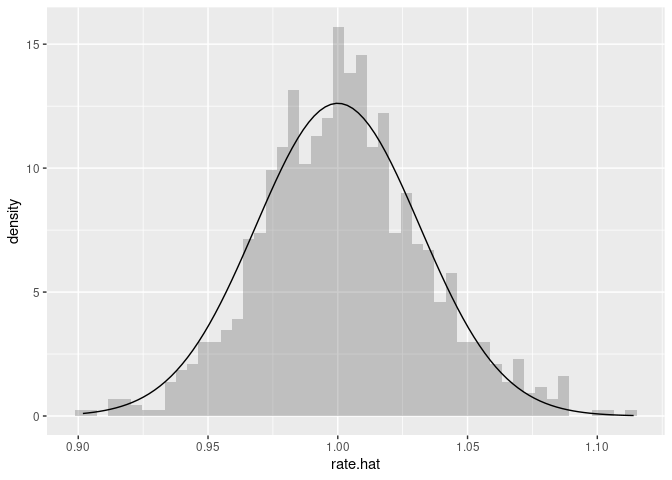
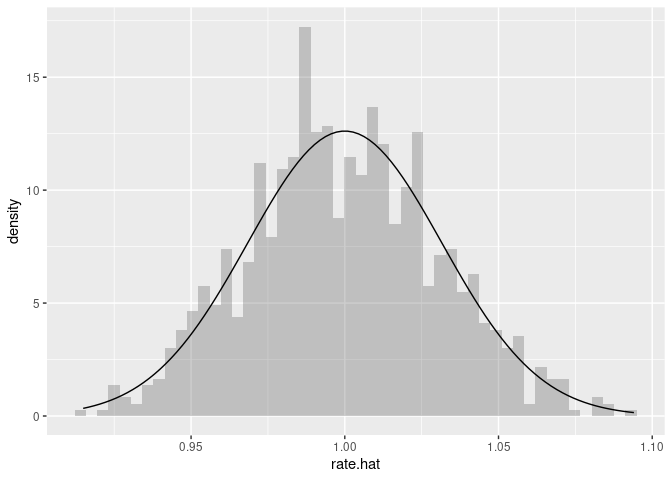
updates

diff --git a/README.md b/README.md
@@ -40,18 +40,18 @@ from this sample (data frame) with:
 ``` r
 print(x)
 #> # A tibble: 1,000 × 1
-#>        x
-#>    <dbl>
-#>  1 0.842
-#>  2 0.459
-#>  3 0.597
-#>  4 0.987
-#>  5 1.10 
-#>  6 0.680
-#>  7 0.773
-#>  8 1.59 
-#>  9 1.12 
-#> 10 0.750
+#>         x
+#>     <dbl>
+#>  1 1.62  
+#>  2 1.33  
+#>  3 0.397 
+#>  4 0.0523
+#>  5 1.59  
+#>  6 1.59  
+#>  7 0.112 
+#>  8 0.108 
+#>  9 6.27  
+#> 10 0.246 
 #> # … with 990 more rows
 ```
 
@@ -76,15 +76,15 @@ estimation as implemented by the `algebraic.mle` package:
 library(algebraic.mle)
 (rate.hat <- mle_exp(x$x))
 #> $theta.hat
-#> [1] 0.9853597
+#> [1] 1.044433
 #> 
 #> $info
 #>          [,1]
-#> [1,] 1029.936
+#> [1,] 916.7246
 #> 
 #> $sigma
-#>              [,1]
-#> [1,] 0.0009709337
+#>            [,1]
+#> [1,] 0.00109084
 #> 
 #> $sample_size
 #> [1] 1000
@@ -97,7 +97,7 @@ We can show the point estimator with:
 
 ``` r
 point(rate.hat)
-#> [1] 0.9853597
+#> [1] 1.044433
 ```
 
 We can show the Fisher information and variance-covariance matrices
@@ -106,10 +106,10 @@ with:
 ``` r
 fisher_info(rate.hat)
 #>          [,1]
-#> [1,] 1029.936
+#> [1,] 916.7246
 vcov(rate.hat)
-#>              [,1]
-#> [1,] 0.0009709337
+#>            [,1]
+#> [1,] 0.00109084
 ```
 
 (If `rate.hat` had been a vector, `vcov` would have output a
@@ -121,7 +121,7 @@ We can show the confidence interval with:
 ``` r
 confint(rate.hat)
 #>       2.5 %   97.5 %
-#> 1 0.9341063 1.036613
+#> 1 0.9901069 1.098759
 ```
 
 ## Sampling distribution of the MLE
@@ -205,3 +205,69 @@ Then, the maximum likelihood estimator of *θ* that incorporates all of
 the data in *θ̂*<sub>1</sub>, …, *θ̂*<sub>*k*</sub> is given by the
 inverse-variance weighted mean,
 *θ̂* = (∑*I*<sub>*j*</sub>(*θ*))<sup>−1</sup>(∑*I*<sub>*j*</sub>(*θ*)*θ*<sub>*j*</sub>).
+
+To evaluate the performance of this estimator, we generate a sample of
+*N* = 1000 from EXP (*λ*=1). We compute the MLE for the observed sample,
+denoted by *θ*. We then divide the observed sample into *r* = 5
+sub-samples, each of size *N*/*r* = 100, and compute the MLE for each
+sub-sampled, denoted by *θ*<sup>(1)</sup>, …, *θ*<sup>(*r*)</sup>.
+Finally, we come these MLEs into the weighted MLE, denoted by
+*θ*<sub>*w*</sub>.
+
+``` r
+N <- 1000
+r <- 5
+data3 <- rexp(N)
+data3.mat <- matrix(data3,nrow=r)
+mles <- list(length=r)
+for (i in 1:r)
+{
+    mles[[i]] <- mle_exp(data3.mat[i,])
+}
+
+mle.wt <- mle_weighted(mles)
+print(mle.wt)
+#> $theta.hat
+#>           [,1]
+#> [1,] 0.9853028
+#> 
+#> $info
+#>          [,1]
+#> [1,] 1024.628
+#> 
+#> $sigma
+#>              [,1]
+#> [1,] 0.0009759642
+#> 
+#> attr(,"class")
+#> [1] "mle_weighted" "mle"          "estimate"
+
+mle.tot <- mle_exp(data3)
+print(mle.tot)
+#> $theta.hat
+#> [1] 0.9905221
+#> 
+#> $info
+#>          [,1]
+#> [1,] 1019.229
+#> 
+#> $sigma
+#>              [,1]
+#> [1,] 0.0009811339
+#> 
+#> $sample_size
+#> [1] 1000
+#> 
+#> attr(,"class")
+#> [1] "mle_exp"   "mle"       "estimator"
+
+confint(mle.wt)
+#>       2.5 %   97.5 %
+#> 1 0.9339169 1.036689
+confint(mle.tot)
+#>       2.5 %   97.5 %
+#> 1 0.9390002 1.042044
+```
+
+We see that *θ̂* and *θ̂*<sub>*w*</sub> model approximately the same
+sampling distribution for *θ*.
